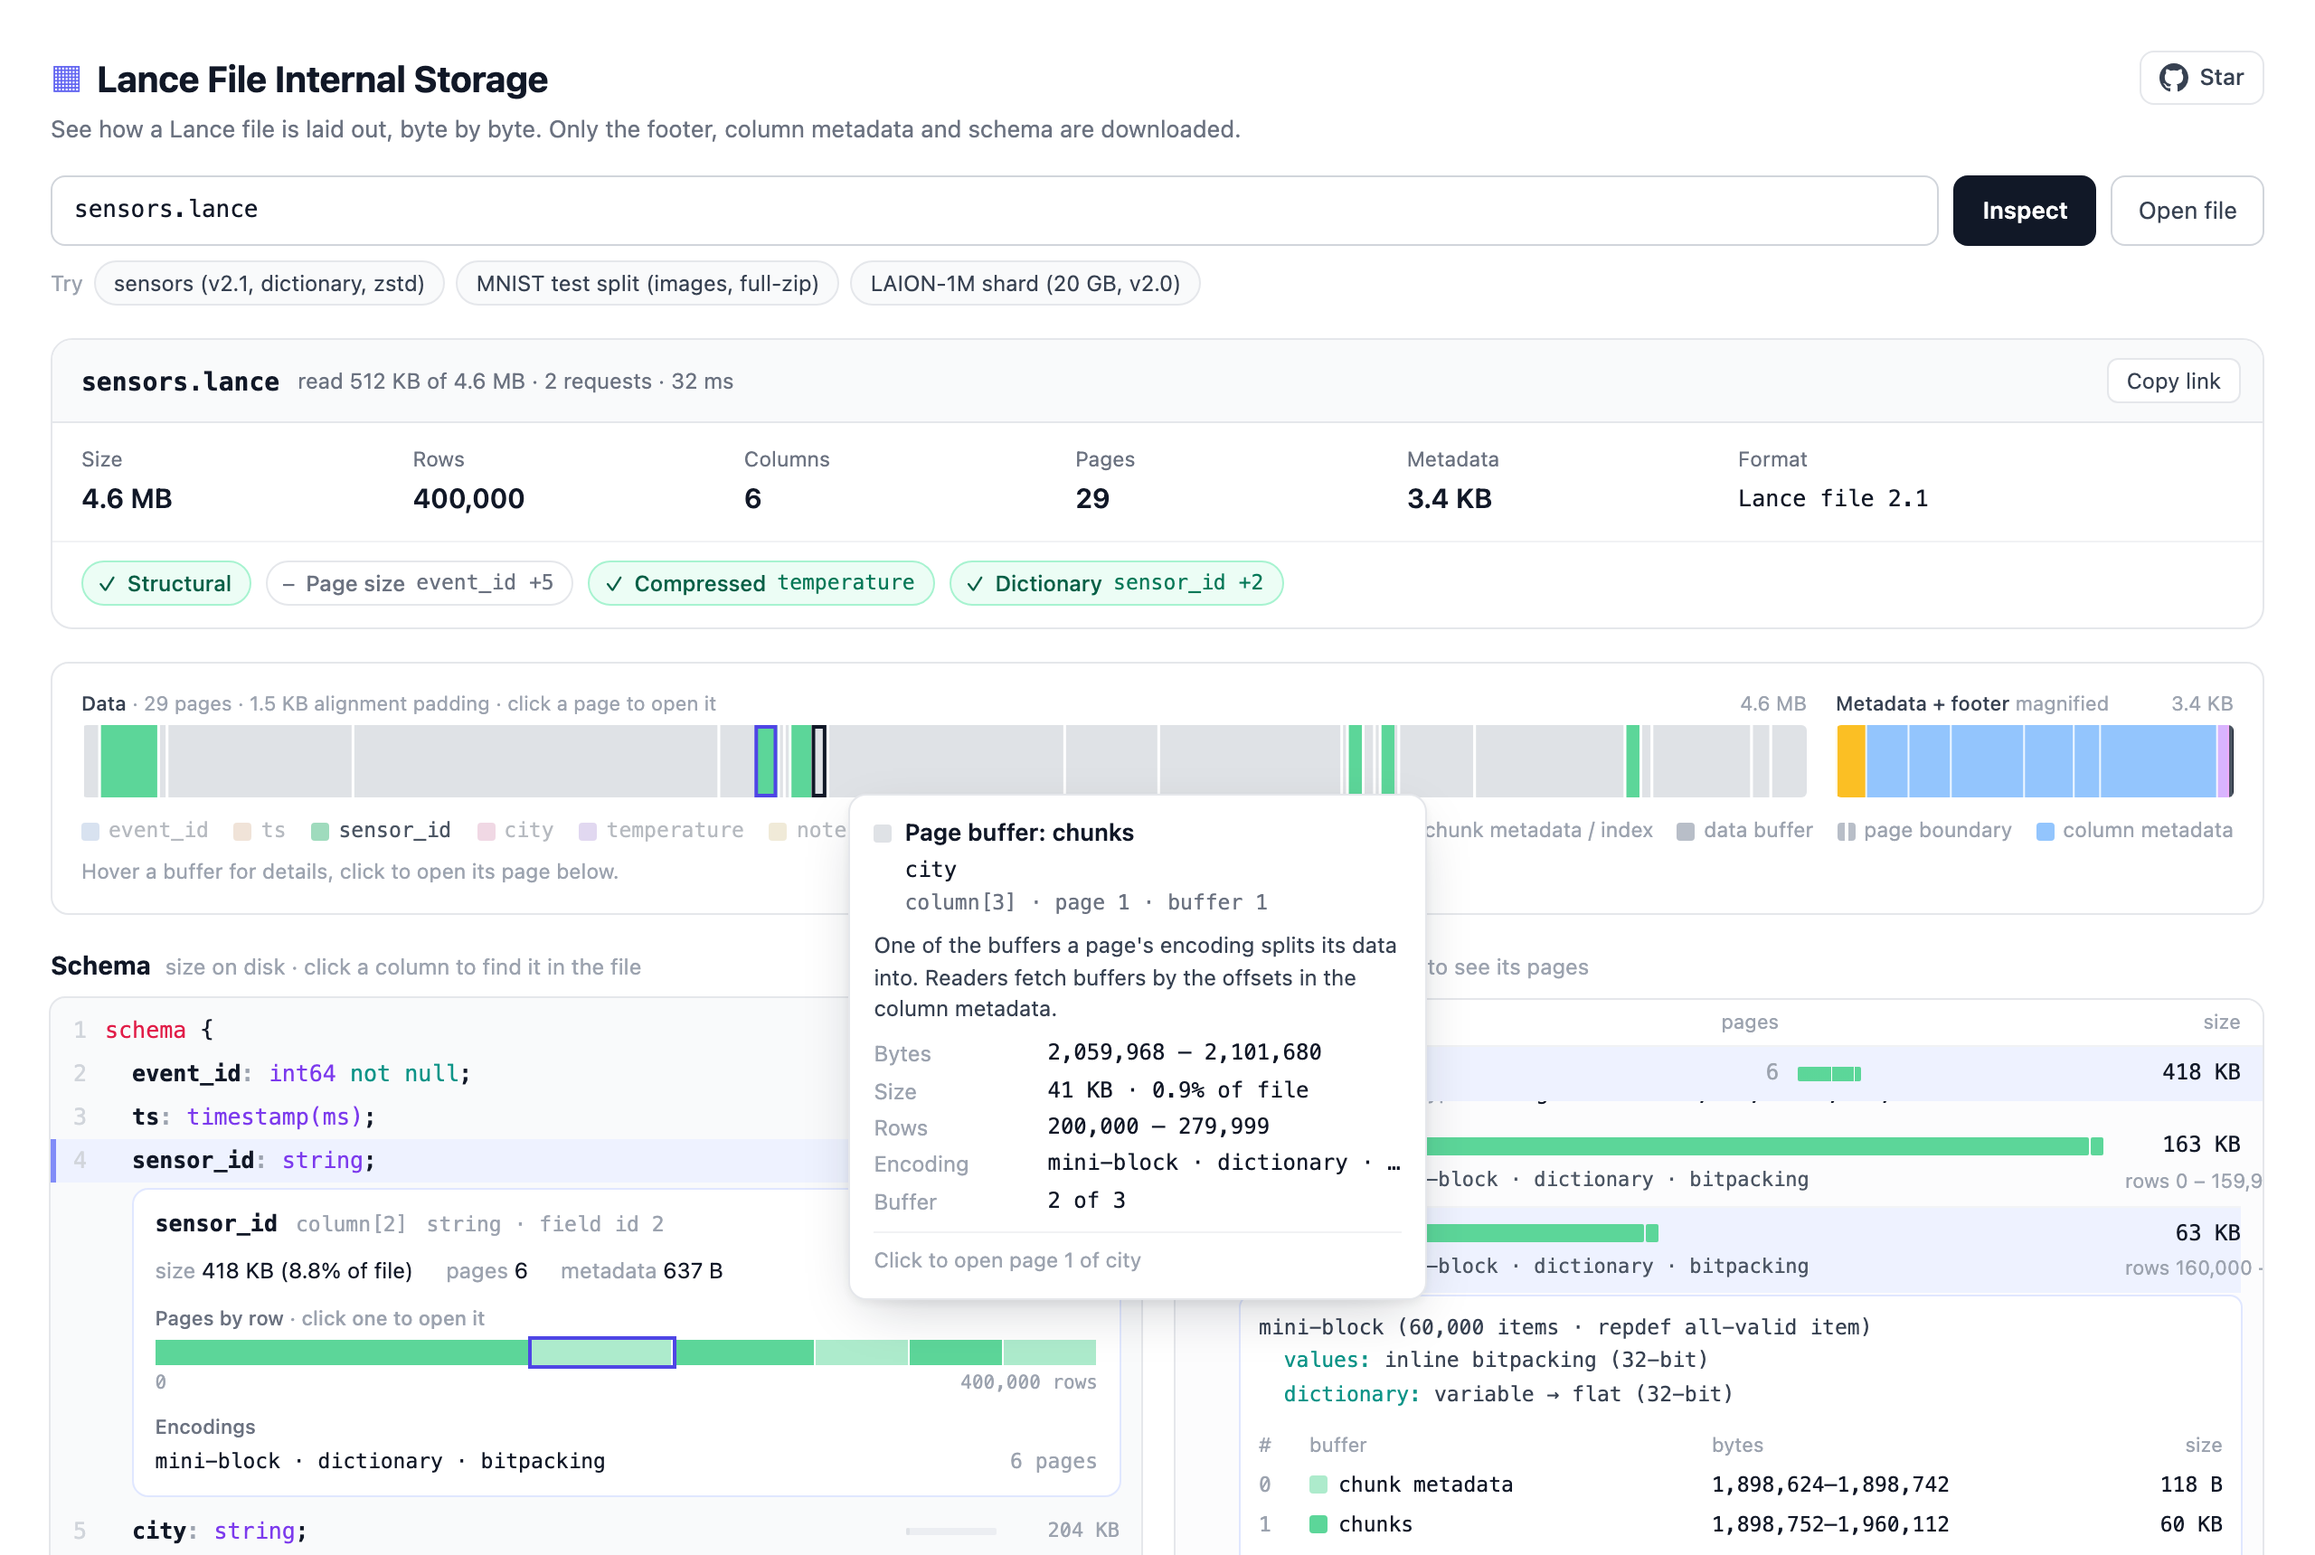
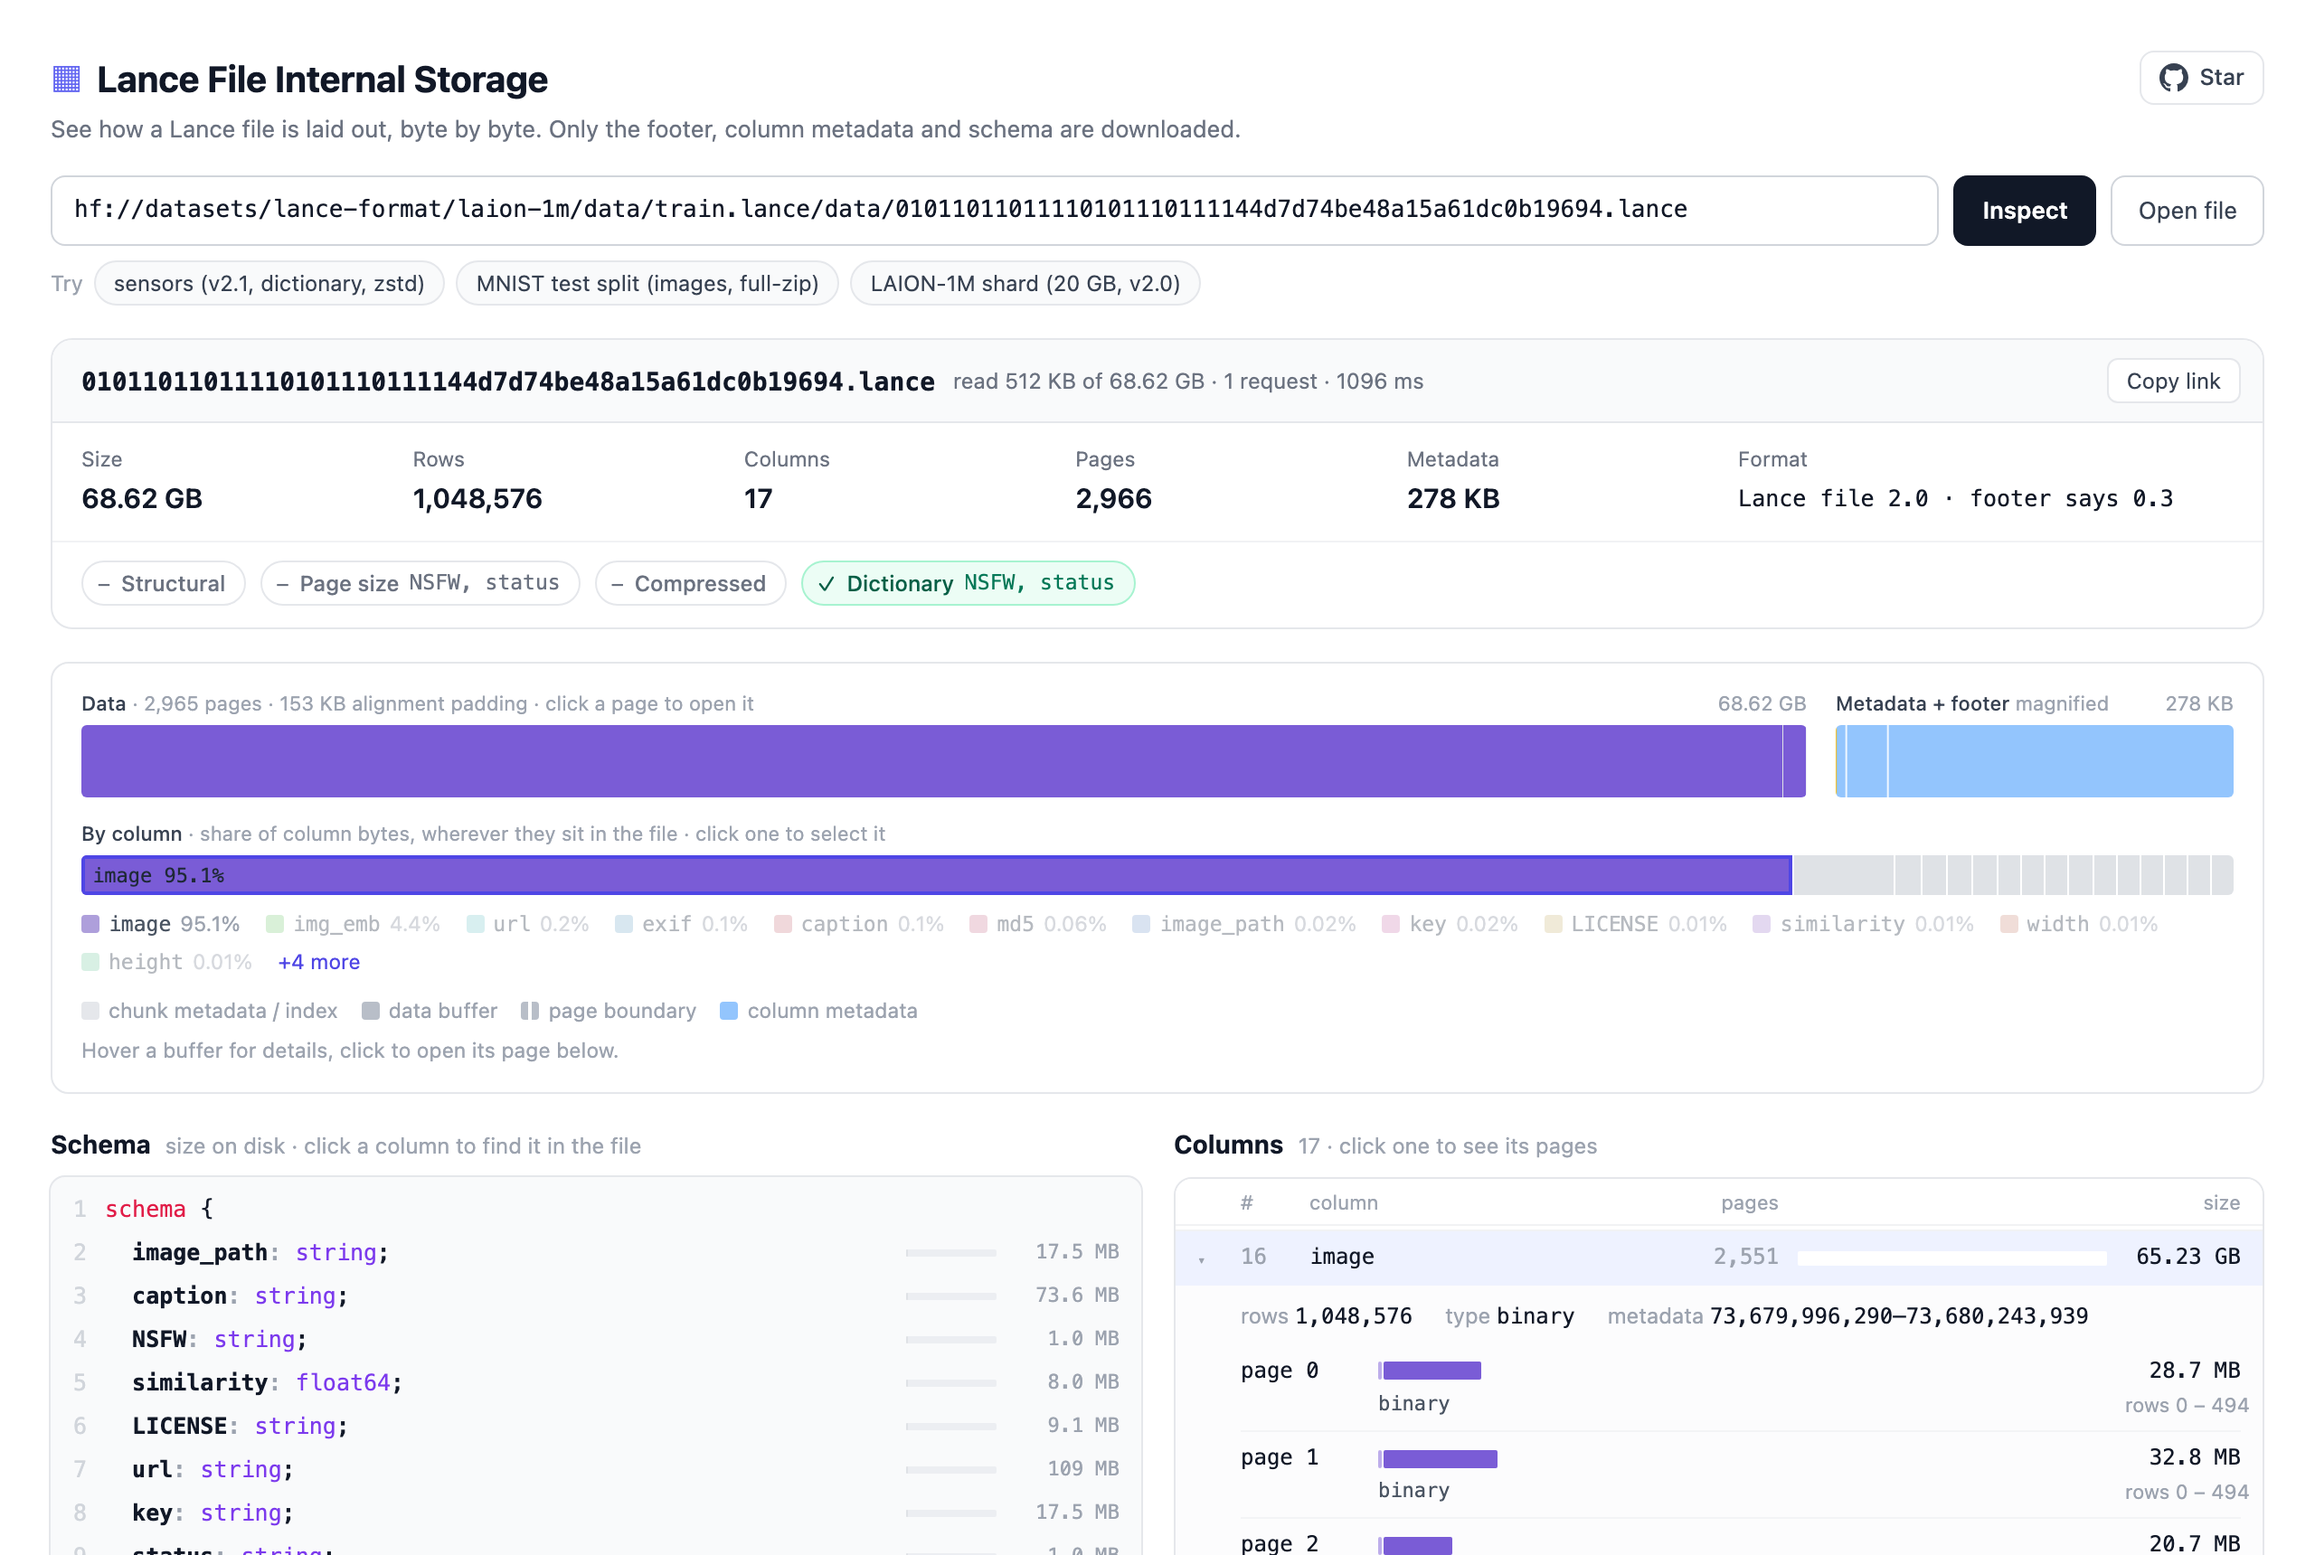
Display storage version

diff --git a/src/components/FileSummary.svelte b/src/components/FileSummary.svelte
@@ -6,8 +6,6 @@
 
   const inspector = getInspector();
   const { model } = inspector;
-  const { footer } = model;
-
   const stats = [
     { label: "Size", value: formatBytes(model.fileSize) },
     { label: "Rows", value: formatNumber(model.numRows) },
@@ -15,9 +13,6 @@
     { label: "Pages", value: formatNumber(model.columns.reduce((sum, c) => sum + c.pages.length, 0)) },
     { label: "Metadata", value: formatBytes(model.metadataBytes) },
   ];
-  const raw = `${footer.major}.${footer.minor}`;
-  const format = `Lance file ${model.version}${raw === model.version ? "" : ` · footer says ${raw}`}`;
-
   let copied = $state(false);
 
   async function copyLink() {
@@ -45,10 +40,6 @@
         <dd>{stat.value}</dd>
       </div>
     {/each}
-    <div class="format">
-      <dt>Format</dt>
-      <dd class="mono">{format}</dd>
-    </div>
   </dl>
   {#each model.warnings as warning (warning)}
     <p class="warning">{warning}</p>
@@ -105,7 +96,7 @@
 
   dl {
     display: grid;
-    grid-template-columns: repeat(5, minmax(0, 1fr)) minmax(0, 1.6fr);
+    grid-template-columns: repeat(5, minmax(0, 1fr));
     gap: 12px;
     margin: 0;
     padding: 12px 16px;
@@ -123,12 +114,6 @@
     font-weight: 600;
     text-overflow: ellipsis;
     white-space: nowrap;
-  }
-
-  .format dd {
-    margin-top: 4px;
-    font-size: 12.5px;
-    font-weight: 500;
   }
 
   .warning {
@@ -151,9 +136,6 @@
     dl {
       grid-template-columns: repeat(3, minmax(0, 1fr));
       padding: 12px;
-    }
-    .format {
-      grid-column: 1 / -1;
     }
   }
 </style>

diff --git a/e2e/app.spec.ts b/e2e/app.spec.ts
@@ -1,4 +1,14 @@
 import { expect, test, type Page } from "@playwright/test";
+import { readFileSync } from "node:fs";
+
+/** The storage version in a Lance file's footer: u16 major and minor, 8 and 6 bytes before the end. */
+function storageVersion(path: string): string {
+  const bytes = readFileSync(path);
+  const major = bytes.readUInt16LE(bytes.length - 8);
+  const minor = bytes.readUInt16LE(bytes.length - 6);
+  // Lance writes 2.0 files with 0.3 in the footer.
+  return major === 0 && minor === 3 ? "2.0" : `${major}.${minor}`;
+}
 
 async function openSensors(page: Page, query = "") {
   await page.goto(`/?url=sensors.lance${query}`);
@@ -8,7 +18,8 @@ async function openSensors(page: Page, query = "") {
 test("shows the file facts and layout checks", async ({ page }) => {
   await openSensors(page);
   await expect(page.getByText("400,000")).toBeVisible();
-  await expect(page.getByText("Lance file 2.1")).toBeVisible();
+  const version = storageVersion("public/sensors.lance");
+  await expect(page.getByTitle(`Lance file format ${version}`)).toHaveText(`Lance ${version}`);
   await expect(page.getByRole("button", { name: /Compressed/ })).toContainText("temperature");
   await expect(page.getByRole("button", { name: /Dictionary/ })).toContainText("sensor_id");
 });

diff --git a/src/App.svelte b/src/App.svelte
@@ -2,6 +2,7 @@
   import EmptyState from "./components/EmptyState.svelte";
   import GitHubLink from "./components/GitHubLink.svelte";
   import SourceInput from "./components/SourceInput.svelte";
+  import VersionBadge from "./components/VersionBadge.svelte";
   import Viewer from "./components/Viewer.svelte";
   import { Inspector } from "./lib/inspector.svelte";
   import { formatBytes } from "./lib/format";
@@ -78,7 +79,10 @@
   <header>
     <div class="title">
       <h1><span class="logo" aria-hidden="true">▦</span> Lance File Internal Storage</h1>
-      <GitHubLink />
+      <div class="actions">
+        {#if inspector}<VersionBadge model={inspector.model} />{/if}
+        <GitHubLink />
+      </div>
     </div>
     <p>See how a Lance file is laid out, byte by byte. Only the footer, column metadata and schema are downloaded.</p>
   </header>
@@ -116,6 +120,12 @@
     align-items: center;
     justify-content: space-between;
     gap: 12px;
+  }
+
+  .actions {
+    display: flex;
+    align-items: center;
+    gap: 8px;
   }
 
   h1 {

diff --git a/src/components/VersionBadge.svelte b/src/components/VersionBadge.svelte
@@ -1,0 +1,32 @@
+<script lang="ts">
+  import type { LanceModel } from "../lib/lance/model";
+
+  let { model }: { model: LanceModel } = $props();
+
+  /** The storage version as the footer stores it; 2.0 files store 0.3. */
+  const raw = $derived(`${model.footer.major}.${model.footer.minor}`);
+  const title = $derived(
+    raw === model.version
+      ? `Lance file format ${model.version}`
+      : `Lance file format ${model.version} (the footer stores it as ${raw})`,
+  );
+</script>
+
+<span class="version mono" {title}>Lance {model.version}</span>
+
+<style>
+  .version {
+    display: inline-flex;
+    flex: none;
+    align-items: center;
+    height: 30px;
+    padding: 0 12px;
+    border: 1px solid var(--accent-line);
+    border-radius: var(--radius);
+    background: var(--accent-soft);
+    font-size: 12.5px;
+    font-weight: 600;
+    color: var(--accent);
+    white-space: nowrap;
+  }
+</style>

diff --git a/tests/helpers.ts b/tests/helpers.ts
@@ -7,7 +7,7 @@ export async function loadFixture(path: string): Promise<Loaded> {
   return loadLance(path.split("/").pop() ?? path, () => fileSource(new Blob([bytes])));
 }
 
-/** What Lance's own reader reported for a fixture, written by `scripts/make-fixtures.py`. */
+/** What Lance's own reader (pylance) reported for a fixture when it was written. */
 export interface Expected {
   version: string;
   num_rows: number;

diff --git a/README.md b/README.md
@@ -2,7 +2,7 @@
 
 See how a [Lance](https://github.com/lance-format/lance) data file is laid out on disk: columns, pages, page buffers, encodings, column metadata, the schema and the footer.
 
-![A Lance file with a page's buffers and encoding open and a buffer's details in a popover](docs/overview.png)
+![A 73.7 GB LAION-1M shard from the Hub with its image column selected: the file strip, the byte share of each column, and the column's pages](docs/overview.png)
 
 Paste a Hub URL, an `hf://` path, any URL that allows CORS range requests, or open a local `.lance` file. Only the footer, column metadata and schema are downloaded, so a 20 GB file opens after reading 512 KB. Files written as Lance 2.0, 2.1, 2.2 and 2.3 are supported; legacy v0.x files are not.
 

diff --git a/CONTRIBUTING.md b/CONTRIBUTING.md
@@ -45,4 +45,3 @@ The protobuf field numbers in `src/lib/lance/` come from `protos/file2.proto`, `
 - Svelte 5 runes (`$state`, `$derived`, `$props`) only.
 - Lance logic goes in `src/lib/lance/` as plain functions with a test on a real file, not in components.
 - Styles are scoped to their component. Shared colors, radii and fonts are CSS variables in `src/app.css`.
-- Test fixtures are generated by `uv run scripts/make-fixtures.py`, so they can be rebuilt instead of hand-edited.
